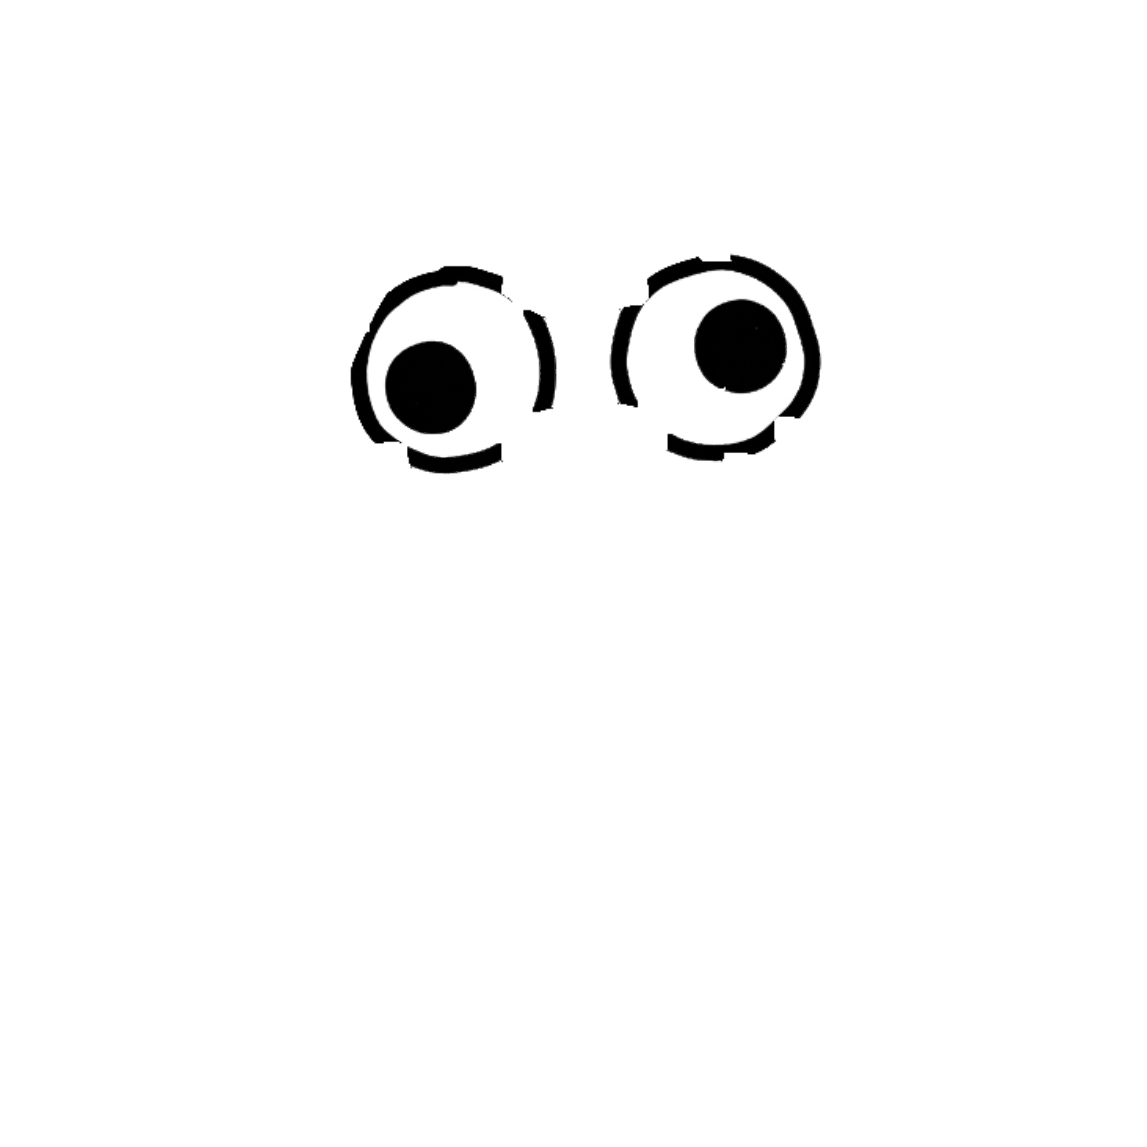
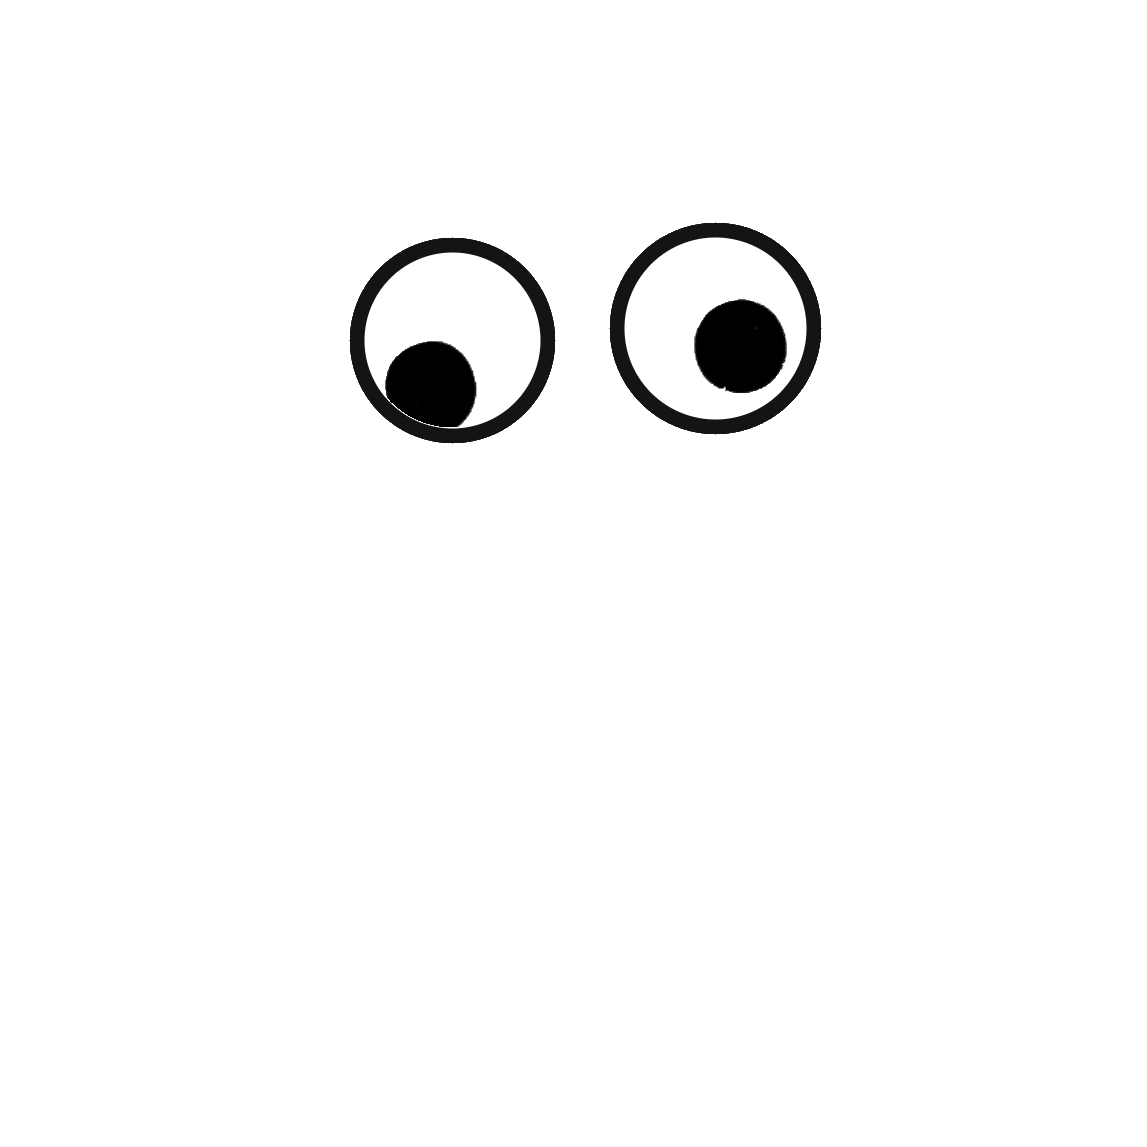
Round-5 random audit fixes: band-aid, googly eyes, kitty mask and shirts, winter cap, clash rules
Band-aid moves to the cheek, googly eyes get closed rings, the kitty mask and
shirts lose their see-through holes, the winter cap is refit to sit on the head.
Random roll keeps beak items off the ski mask and eyewear off the soldier-helmet strap.

Changed region(s): [[0.5187, 0.1831, 0.7323, 0.4272], [0.3051, 0.1831, 0.4882, 0.4272]]

diff --git a/functions/_lib.ts b/functions/_lib.ts
@@ -654,7 +654,7 @@ export const cleanPingMessage = (raw: string): string | null => {
  * a redesign gets a fresh render instead of the stored old one. Links made
  * before a bump keep resolving to the card they were made with.
  */
-export const CARD_RENDER_VERSION = 8;
+export const CARD_RENDER_VERSION = 9;
 
 /**
  * The string hashed into a share id: the render version, the traits, and the
